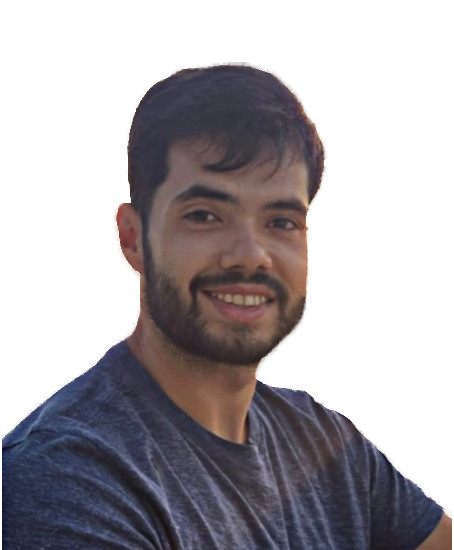
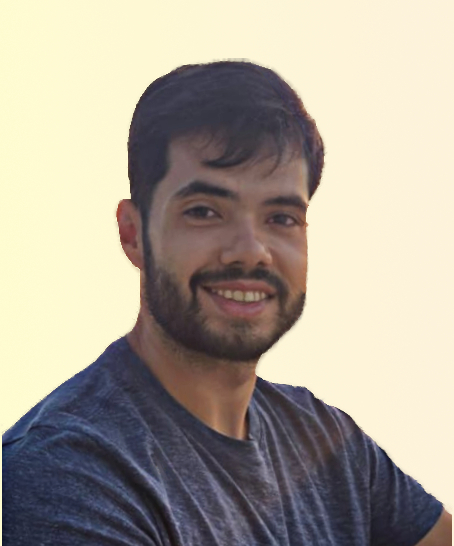
retoque de fotos, fondo a los pibes

diff --git a/index.html b/index.html
@@ -163,7 +163,7 @@
   <div class="grilla">
 
     <div class="card1">
-      <img src="img/people/foto_rodriguez.jpg" alt="Juana Rodriguez Gallo">
+      <img src="img/people/foto_rodriguez.png" alt="Juana Rodriguez Gallo">
       <p class="nombre">Juana Rodriguez Gallo</p>
       <p class="cargo">Msc student</p>
       <a class="mail" href="mailto:jrgallo@df.uba.ar">jrgallo@df.uba.ar</a>
